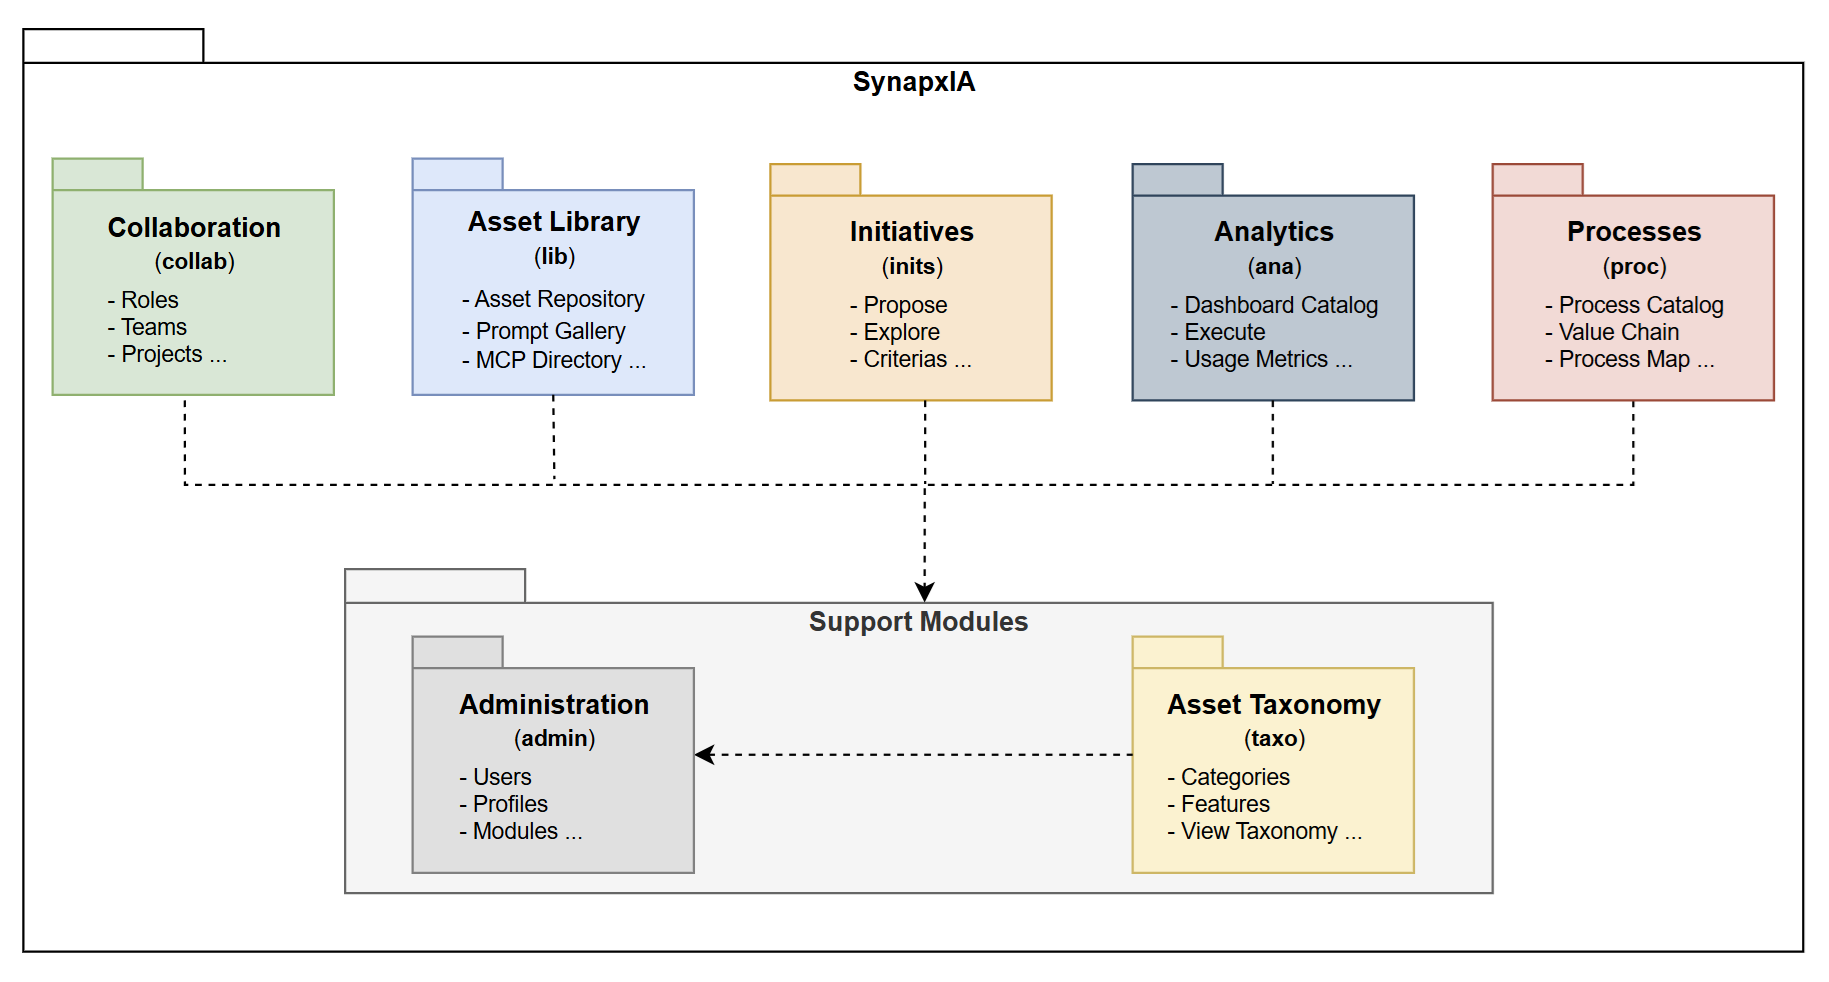
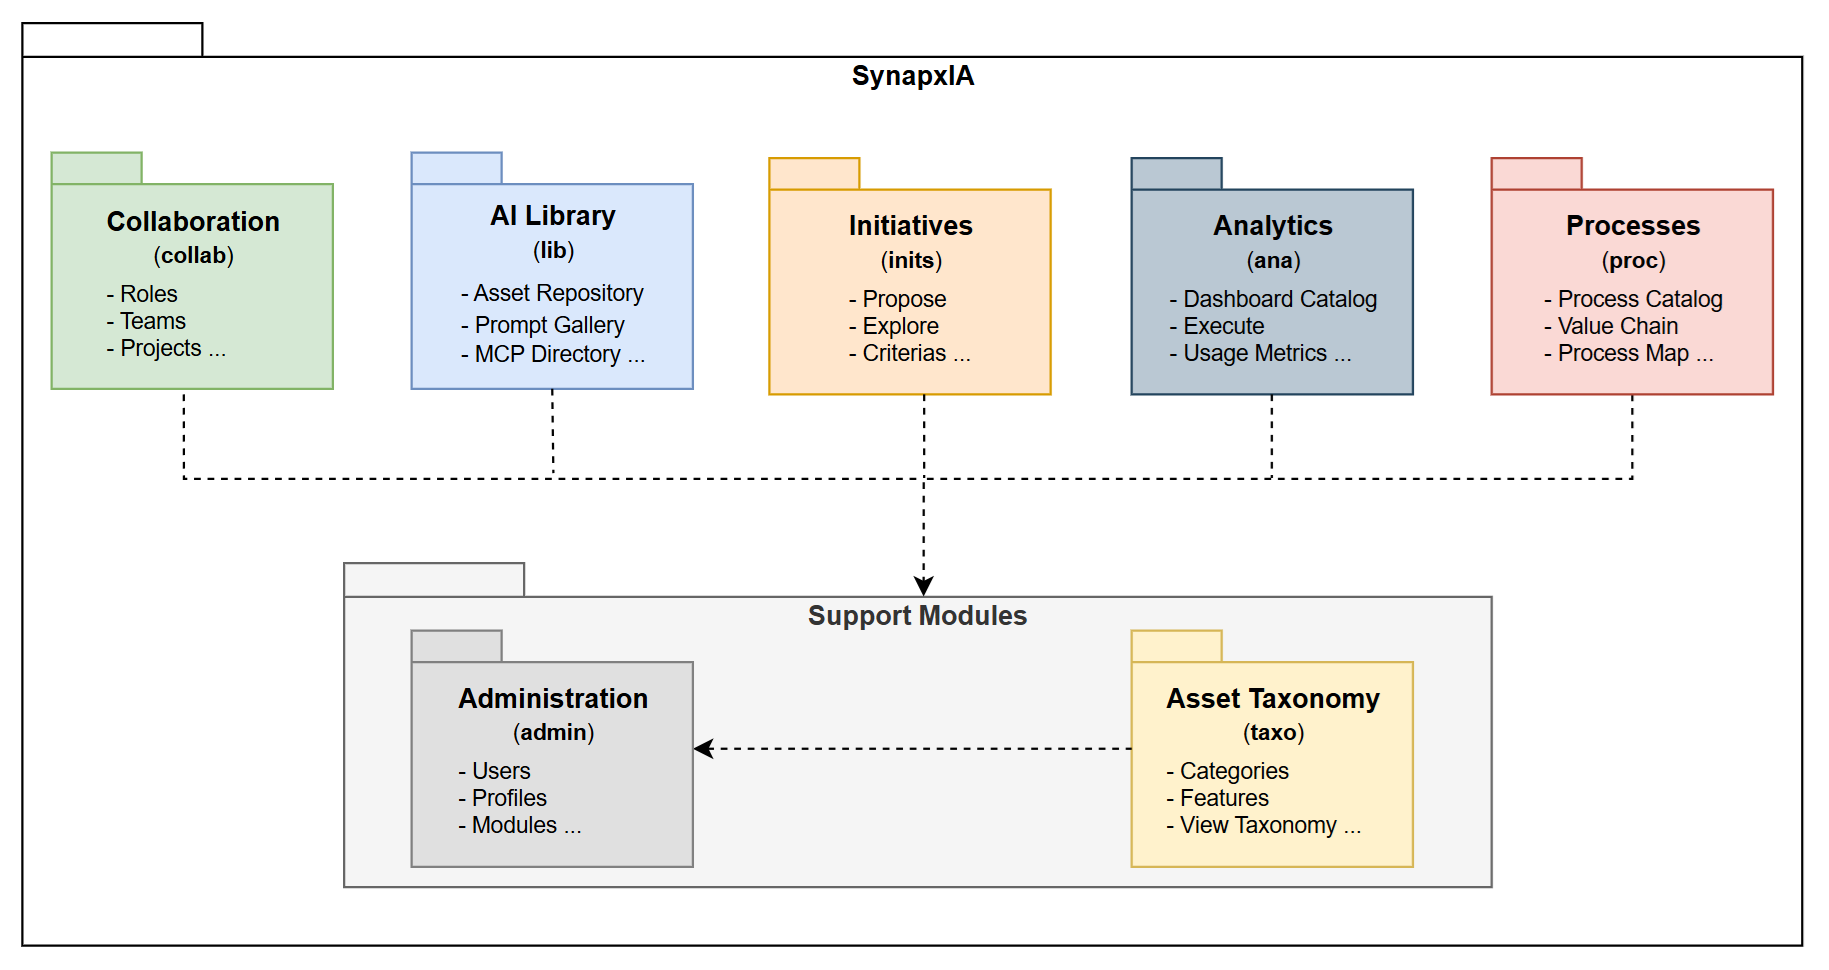
feat: lib and inits modules state transition

diff --git a/docs/user-stories/inits-status.md b/docs/user-stories/inits-status.md
@@ -1,0 +1,32 @@
+# Status and Types for Inits Module
+
+## HU-Activate ()
+When saving, request a reviewer (user with ADMINISTRATIVE role) and insert the following records:
+- 1 record in inits table with status 'ACTIVATED'
+- 1 record in collaborations table for current user with type 'ACTIVATION' and status 'FINISHED'
+- 1 record in collaborations table for reviewer user (with ADMINISTRATIVE role) and type 'DIAGNOSIS' and status 'ASSIGNED'
+- 1 record in init_permissions table for current user with access_level 'MANAGE' and valid_from = now() AND valid_to = NULL
+- 1 record in init_permissions table for reviewer user with access_level 'MANAGE' and valid_from = now() AND valid_to = NULL
+
+## HU-Notifications ()
+- List collaborations for current user grouping by init with last status equal to 'ASSIGNED' (bold)
+  or 'NOTIFIED' (not bold and remove option) with type 'DIAGNOSIS'/'ACCEPTANCE'/'REJECTION'/'DELIVERY'
+- When click on an collaboration, show the corresponding user story ('HU-Diagnosis' for 'DIAGNOSIS' type,
+  or 'Show Collab' for 'ACCEPTANCE'/'REJECTION'/'DELIVERY' type),
+- When click on remove option (collaborations with status 'NOTIFIED'), remove collaboration from the list of notifications
+  and insert a record for the corresponding collaboration with status 'FINISHED'
+
+## HU-Diagnosis ()
+- Upon entering, if the collaboration status is 'ASSIGNED', remove bold style in the list of notifications
+  and insert the corresponding collaboration with type 'DIAGNOSIS' and status 'NOTIFIED'
+- When saving (accept/reject), insert the corresponding collaboration with type 'DIAGNOSIS' and status 'FINISHED'
+- When accept/reject, update the init status to 'ACCEPTED'/'REJECTED' respectively
+- When accept/reject, insert a new collaboration for the proposer user
+  with type 'ACCEPTANCE'/'REJECTION' respectively and status 'ASSIGNED'
+
+## HU-Show Collab ()
+- Upon entering, if the collaboration status is 'ASSIGNED', remove bold style in the list of notifications
+  and insert the corresponding collaboration with type 'ACCEPTANCE'/'REJECTION'/'DELIVERY' and status 'NOTIFIED'
+
+## HU-Delivery ()
+- When saving, insert a new collaboration for the proposer user with type 'DELIVERY' and status 'ASSIGNED'